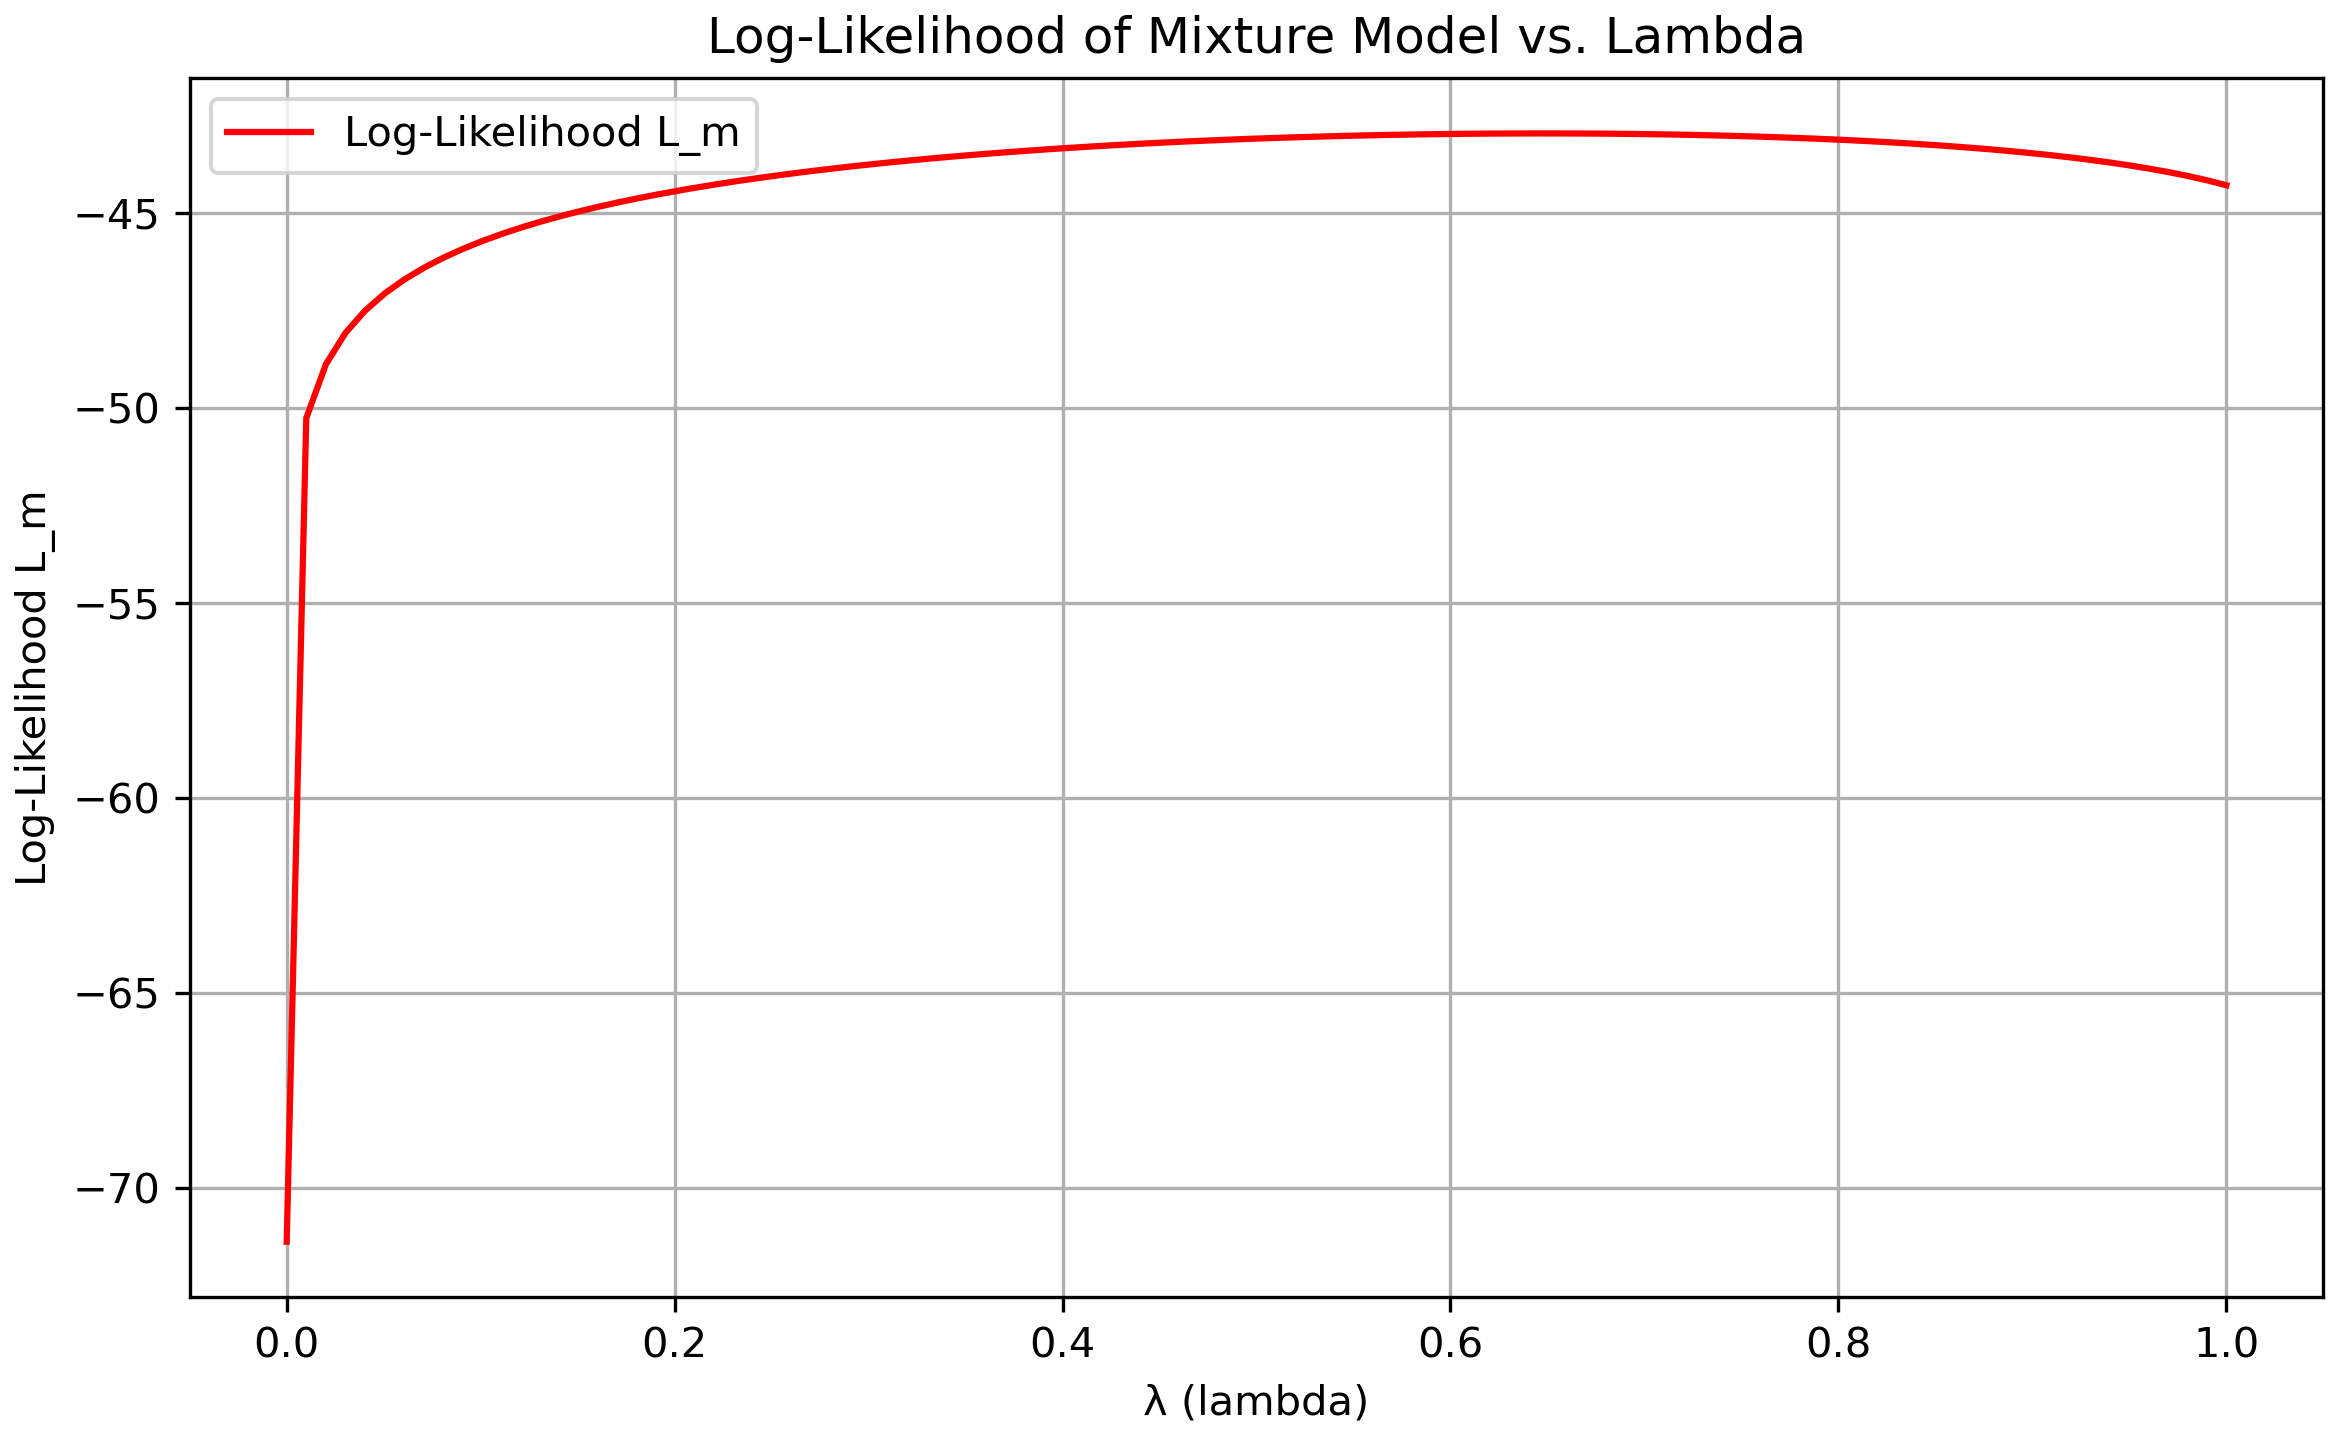
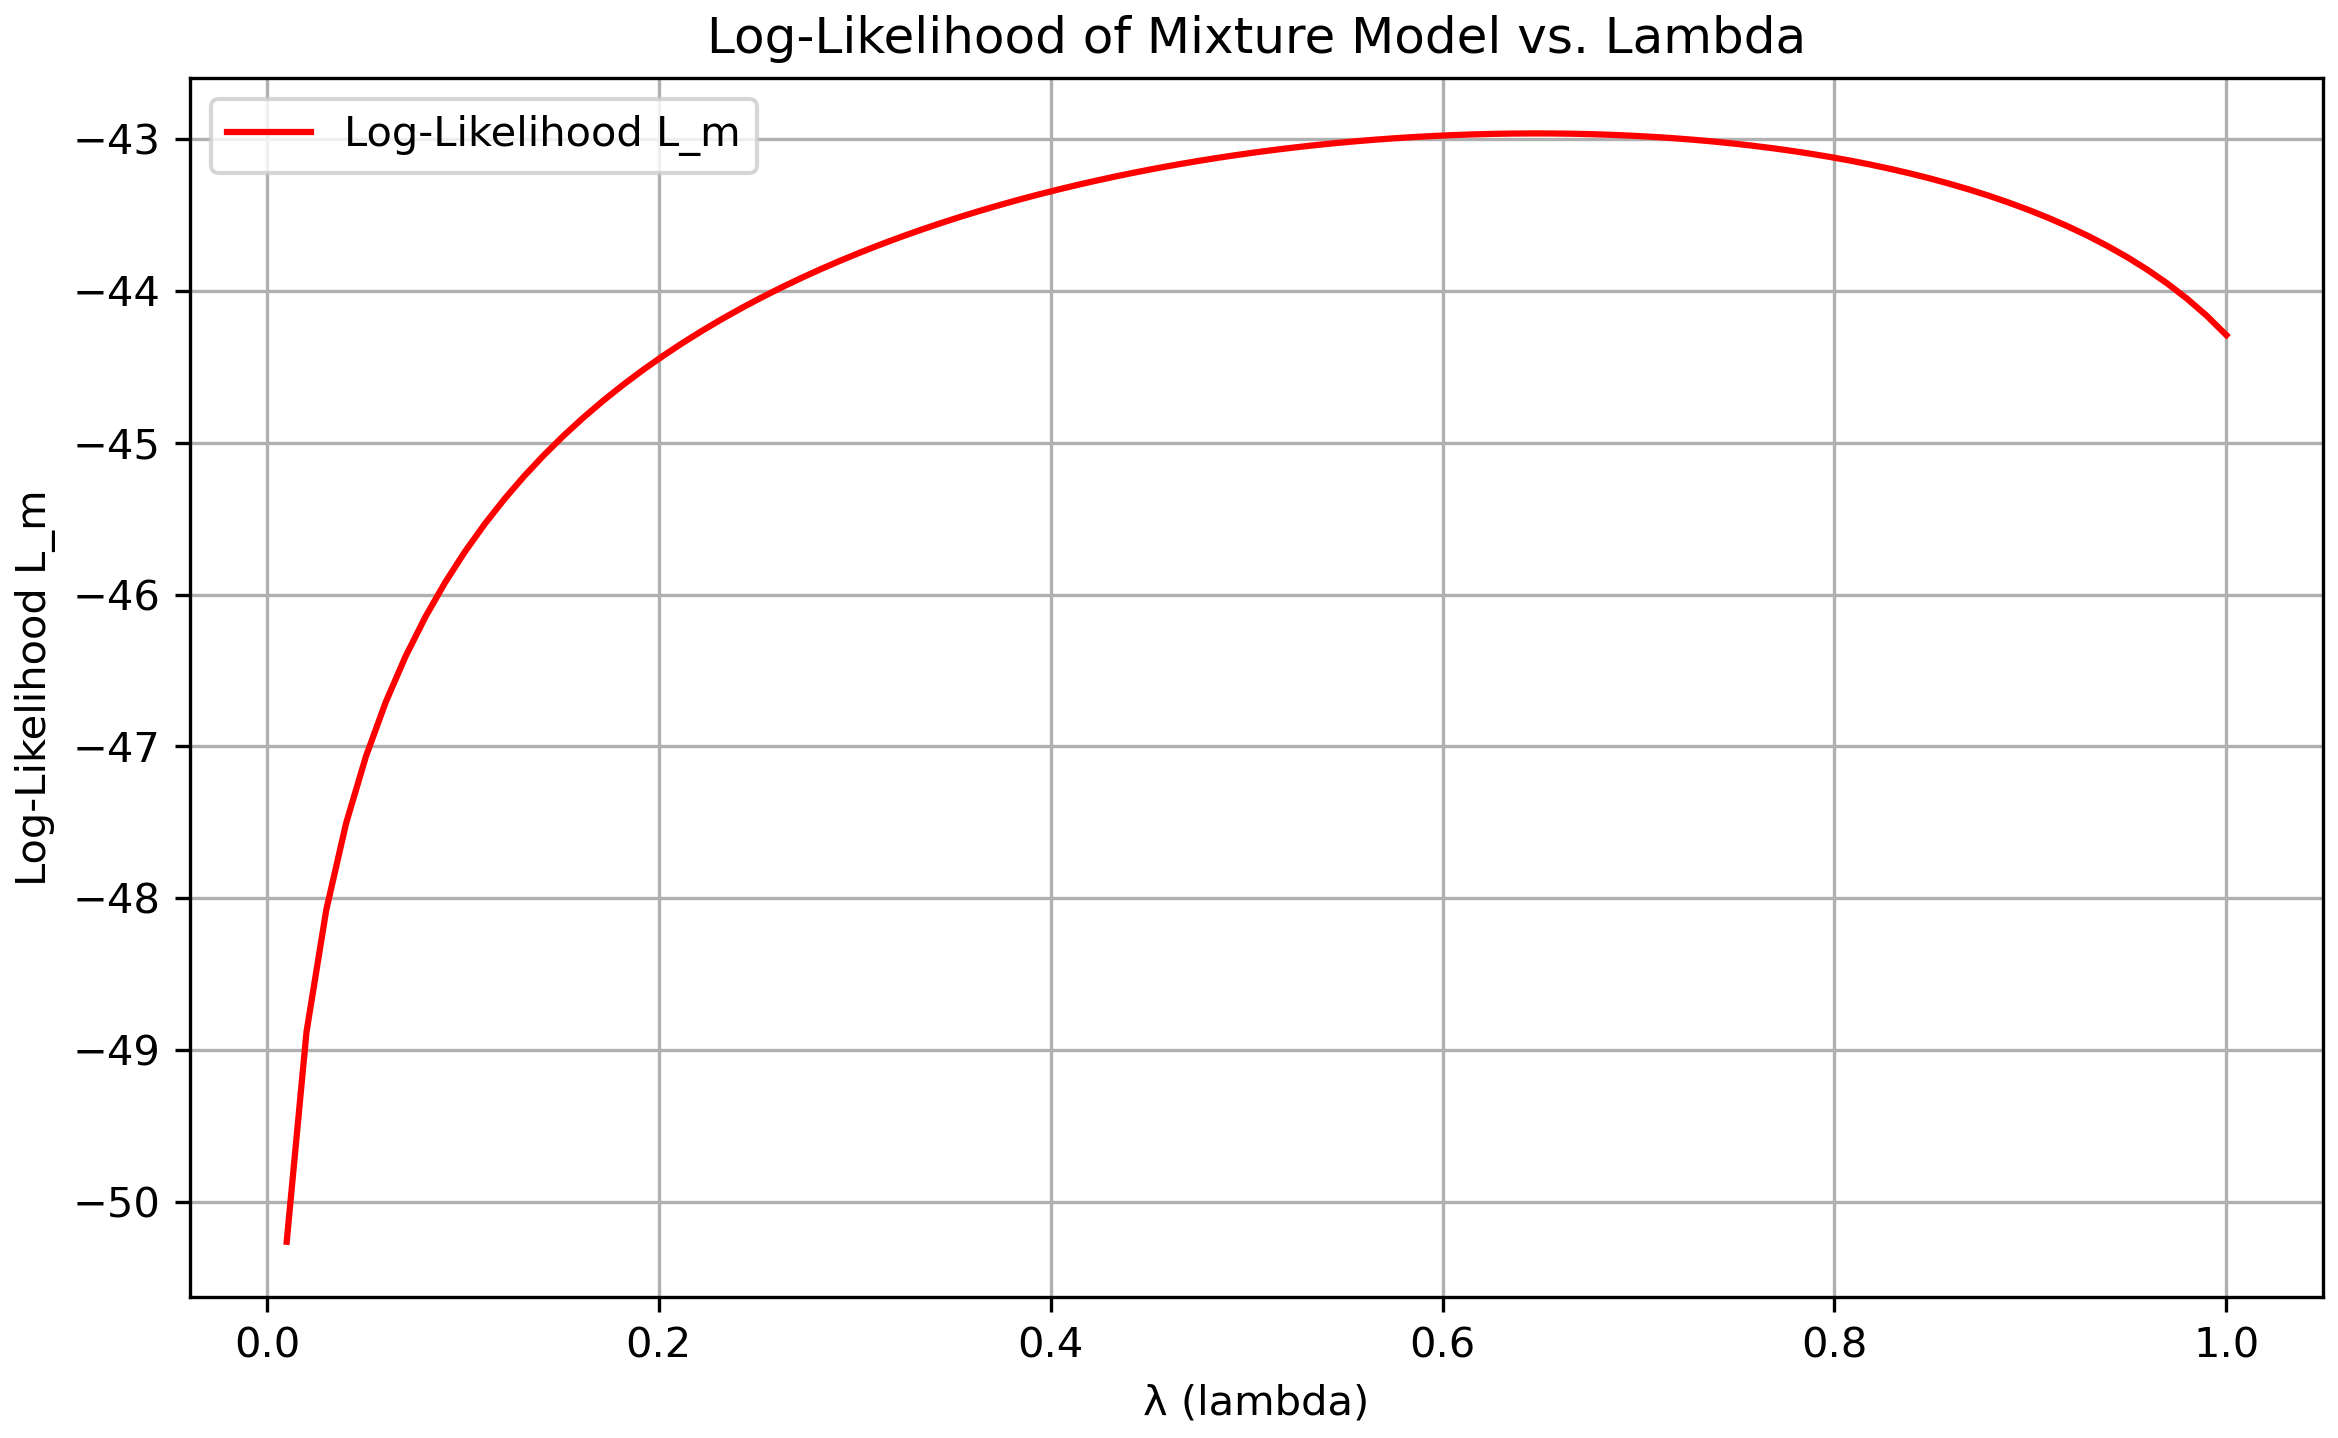
set unseen prob to 0.0

diff --git a/HW4/4-3-e.py b/HW4/4-3-e.py
@@ -39,7 +39,7 @@ for lam in lambdas:
         match = bigram_data[(bigram_data["w1_idx"] == prev_index) & (bigram_data["w2_idx"] == idx)]
         count_bigram = int(match["count"].values[0]) if not match.empty else 0
         prev_count = unigram_counts[prev_index - 1]
-        p_b = count_bigram / prev_count if count_bigram > 0 else 1e-10
+        p_b = count_bigram / prev_count if count_bigram > 0 else 0.0
 
         p_m = lam * p_u + (1 - lam) * p_b
         log_likelihood_m += np.log(p_m)

diff --git a/HW4/4-3-d.py b/HW4/4-3-d.py
@@ -36,7 +36,7 @@ for idx in token_indices:
     if count_bigram > 0:
         prob = count_bigram / prev_count
     else:
-        prob = 1e-10
+        prob = 0.0
         unseen_bigrams.append((vocab[prev_index - 1], vocab[idx - 1]))
 
     bigram_log_likelihood += np.log(prob)

diff --git a/HW4/4-3-c.py b/HW4/4-3-c.py
@@ -36,7 +36,7 @@ for idx in token_indices:
     if count_bigram > 0:
         prob = count_bigram / prev_count
     else:
-        prob = 1e-10
+        prob = 0.0
 
     bigram_log_likelihood += np.log(prob)
     prev_index = idx
